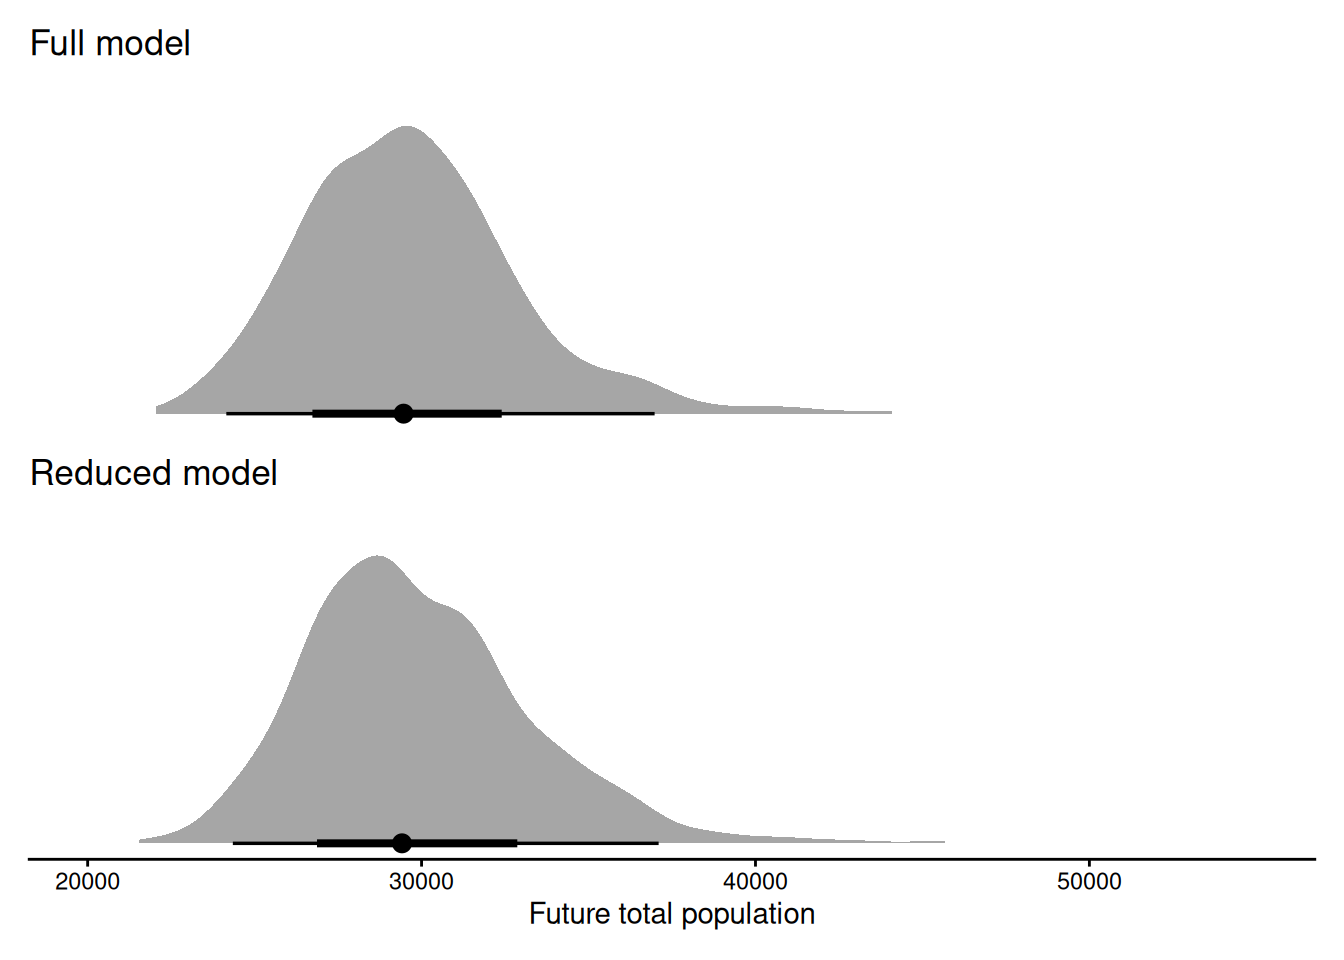
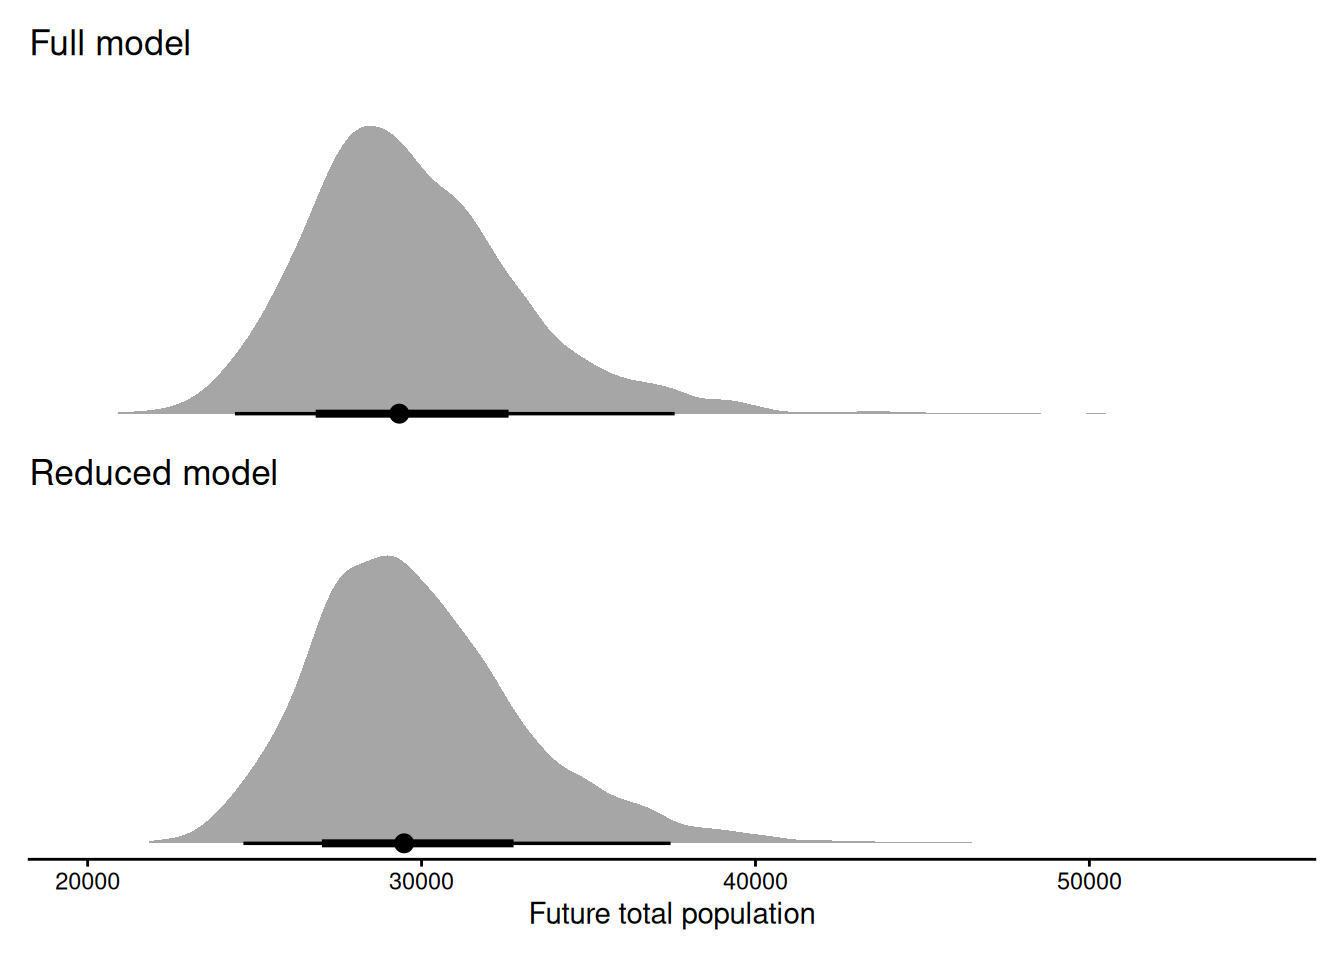
update case study

diff --git a/docs/articles/data_source_importance.html b/docs/articles/data_source_importance.html
@@ -133,9 +133,9 @@
 <span>    data <span class="op">=</span> <span class="va">grey_seal_data</span>,</span>
 <span>    species <span class="op">=</span> <span class="st">"grey"</span>,</span>
 <span>    years <span class="op">=</span> <span class="fl">2005</span><span class="op">:</span><span class="fl">2010</span>,</span>
-<span>    iter_warmup <span class="op">=</span> <span class="fl">800</span>,</span>
-<span>    iter_sampling <span class="op">=</span> <span class="fl">200</span>,</span>
-<span>    chains <span class="op">=</span> <span class="fl">5</span>,</span>
+<span>    iter_warmup <span class="op">=</span> <span class="fl">1000</span>,</span>
+<span>    iter_sampling <span class="op">=</span> <span class="fl">500</span>,</span>
+<span>    chains <span class="op">=</span> <span class="fl">10</span>,</span>
 <span>    seed <span class="op">=</span> <span class="fl">123</span>,</span>
 <span>    refresh <span class="op">=</span> <span class="fl">0</span></span>
 <span><span class="op">)</span></span></code></pre></div>
@@ -175,66 +175,66 @@
 
     <script src="https://cdn.jsdelivr.net/gh/vincentarelbundock/tinytable@main/inst/tinytable.js"></script><script>
       // Create table-specific functions using external factory
-      const tableFns_bupg8pci8k2zd06lzst3 = TinyTable.createTableFunctions("tinytable_bupg8pci8k2zd06lzst3");
+      const tableFns_br2hs6qhqlc0nozspq90 = TinyTable.createTableFunctions("tinytable_br2hs6qhqlc0nozspq90");
       // tinytable span after
       window.addEventListener('load', function () {
           var cellsToStyle = [
             // tinytable style arrays after
-          { positions: [ { i: '8', j: 1 }, { i: '8', j: 2 } ], css_id: 'tinytable_css_22kcstvxstbylncjt2mx',},
-          { positions: [ { i: '0', j: 1 }, { i: '0', j: 2 } ], css_id: 'tinytable_css_1u4lfc69mhzd3kwf9w3n',},
+          { positions: [ { i: '8', j: 1 }, { i: '8', j: 2 } ], css_id: 'tinytable_css_c6wkj2gts00m4i9fbu5r',},
+          { positions: [ { i: '0', j: 1 }, { i: '0', j: 2 } ], css_id: 'tinytable_css_ndypjil7q8o8wj9x03qs',},
           ];
 
           // Loop over the arrays to style the cells
           cellsToStyle.forEach(function (group) {
               group.positions.forEach(function (cell) {
-                  tableFns_bupg8pci8k2zd06lzst3.styleCell(cell.i, cell.j, group.css_id);
+                  tableFns_br2hs6qhqlc0nozspq90.styleCell(cell.i, cell.j, group.css_id);
               });
           });
       });
     </script><link rel="stylesheet" href="https://cdn.jsdelivr.net/gh/vincentarelbundock/tinytable@main/inst/tinytable.css">
 <style>
     /* tinytable css entries after */
-    #tinytable_bupg8pci8k2zd06lzst3 td.tinytable_css_22kcstvxstbylncjt2mx, #tinytable_bupg8pci8k2zd06lzst3 th.tinytable_css_22kcstvxstbylncjt2mx {  position: relative; --border-bottom: 1; --border-left: 0; --border-right: 0; --border-top: 0; --line-color-bottom: var(--tt-line-color); --line-color-left: var(--tt-line-color); --line-color-right: var(--tt-line-color); --line-color-top: var(--tt-line-color); --line-width-bottom: 0.08em; --line-width-left: 0.1em; --line-width-right: 0.1em; --line-width-top: 0.1em; --trim-bottom-left: 0%; --trim-bottom-right: 0%; --trim-left-bottom: 0%; --trim-left-top: 0%; --trim-right-bottom: 0%; --trim-right-top: 0%; --trim-top-left: 0%; --trim-top-right: 0%;  }
-    #tinytable_bupg8pci8k2zd06lzst3 td.tinytable_css_1u4lfc69mhzd3kwf9w3n, #tinytable_bupg8pci8k2zd06lzst3 th.tinytable_css_1u4lfc69mhzd3kwf9w3n {  position: relative; --border-bottom: 1; --border-left: 0; --border-right: 0; --border-top: 1; --line-color-bottom: var(--tt-line-color); --line-color-left: var(--tt-line-color); --line-color-right: var(--tt-line-color); --line-color-top: var(--tt-line-color); --line-width-bottom: 0.05em; --line-width-left: 0.1em; --line-width-right: 0.1em; --line-width-top: 0.08em; --trim-bottom-left: 0%; --trim-bottom-right: 0%; --trim-left-bottom: 0%; --trim-left-top: 0%; --trim-right-bottom: 0%; --trim-right-top: 0%; --trim-top-left: 0%; --trim-top-right: 0%;  }
+    #tinytable_br2hs6qhqlc0nozspq90 td.tinytable_css_c6wkj2gts00m4i9fbu5r, #tinytable_br2hs6qhqlc0nozspq90 th.tinytable_css_c6wkj2gts00m4i9fbu5r {  position: relative; --border-bottom: 1; --border-left: 0; --border-right: 0; --border-top: 0; --line-color-bottom: var(--tt-line-color); --line-color-left: var(--tt-line-color); --line-color-right: var(--tt-line-color); --line-color-top: var(--tt-line-color); --line-width-bottom: 0.08em; --line-width-left: 0.1em; --line-width-right: 0.1em; --line-width-top: 0.1em; --trim-bottom-left: 0%; --trim-bottom-right: 0%; --trim-left-bottom: 0%; --trim-left-top: 0%; --trim-right-bottom: 0%; --trim-right-top: 0%; --trim-top-left: 0%; --trim-top-right: 0%;  }
+    #tinytable_br2hs6qhqlc0nozspq90 td.tinytable_css_ndypjil7q8o8wj9x03qs, #tinytable_br2hs6qhqlc0nozspq90 th.tinytable_css_ndypjil7q8o8wj9x03qs {  position: relative; --border-bottom: 1; --border-left: 0; --border-right: 0; --border-top: 1; --line-color-bottom: var(--tt-line-color); --line-color-left: var(--tt-line-color); --line-color-right: var(--tt-line-color); --line-color-top: var(--tt-line-color); --line-width-bottom: 0.05em; --line-width-left: 0.1em; --line-width-right: 0.1em; --line-width-top: 0.08em; --trim-bottom-left: 0%; --trim-bottom-right: 0%; --trim-left-bottom: 0%; --trim-left-top: 0%; --trim-right-bottom: 0%; --trim-right-top: 0%; --trim-top-left: 0%; --trim-top-right: 0%;  }
     </style>
 <div class="container">
-      <table class="table tinytable" id="tinytable_bupg8pci8k2zd06lzst3" style="width: auto; margin-left: auto; margin-right: auto;" data-quarto-disable-processing="true">
+      <table class="table tinytable" id="tinytable_br2hs6qhqlc0nozspq90" style="width: auto; margin-left: auto; margin-right: auto;" data-quarto-disable-processing="true">
 <thead><tr>
 <th scope="col" data-row="0" data-col="1">Source</th>
                 <th scope="col" data-row="0" data-col="2">Likelihood sensitivity</th>
               </tr></thead>
 <tbody>
 <tr>
-<td data-row="1" data-col="1">harvest_bags_sweden</td>
-                  <td data-row="1" data-col="2">0.01</td>
+<td data-row="1" data-col="1">pregnancy</td>
+                  <td data-row="1" data-col="2">0.003</td>
                 </tr>
 <tr>
-<td data-row="2" data-col="1">pregnancy</td>
-                  <td data-row="2" data-col="2">0.02</td>
+<td data-row="2" data-col="1">harvest_bags_finland</td>
+                  <td data-row="2" data-col="2">0.007</td>
                 </tr>
 <tr>
-<td data-row="3" data-col="1">harvest_bags_finland</td>
-                  <td data-row="3" data-col="2">0.02</td>
+<td data-row="3" data-col="1">harvest_bags_sweden</td>
+                  <td data-row="3" data-col="2">0.008</td>
                 </tr>
 <tr>
-<td data-row="4" data-col="1">bycatch</td>
-                  <td data-row="4" data-col="2">0.02</td>
+<td data-row="4" data-col="1">reproductive_signs</td>
+                  <td data-row="4" data-col="2">0.015</td>
                 </tr>
 <tr>
-<td data-row="5" data-col="1">reproductive_signs</td>
-                  <td data-row="5" data-col="2">0.03</td>
+<td data-row="5" data-col="1">bycatch</td>
+                  <td data-row="5" data-col="2">0.017</td>
                 </tr>
 <tr>
-<td data-row="6" data-col="1">hunting_comp_sweden</td>
-                  <td data-row="6" data-col="2">0.06</td>
+<td data-row="6" data-col="1">hunting_comp_finland</td>
+                  <td data-row="6" data-col="2">0.021</td>
                 </tr>
 <tr>
-<td data-row="7" data-col="1">hunting_comp_finland</td>
-                  <td data-row="7" data-col="2">0.09</td>
+<td data-row="7" data-col="1">hunting_comp_sweden</td>
+                  <td data-row="7" data-col="2">0.048</td>
                 </tr>
 <tr>
 <td data-row="8" data-col="1">aerial</td>
-                  <td data-row="8" data-col="2">0.2</td>
+                  <td data-row="8" data-col="2">0.189</td>
                 </tr>
 </tbody>
 </table>
@@ -256,9 +256,9 @@
 <span>    data <span class="op">=</span> <span class="va">data_no_pregnancy</span>,</span>
 <span>    species <span class="op">=</span> <span class="st">"grey"</span>,</span>
 <span>    years <span class="op">=</span> <span class="fl">2005</span><span class="op">:</span><span class="fl">2010</span>,</span>
-<span>    iter_warmup <span class="op">=</span> <span class="fl">800</span>,</span>
-<span>    iter_sampling <span class="op">=</span> <span class="fl">200</span>,</span>
-<span>    chains <span class="op">=</span> <span class="fl">5</span>,</span>
+<span>    iter_warmup <span class="op">=</span> <span class="fl">1000</span>,</span>
+<span>    iter_sampling <span class="op">=</span> <span class="fl">500</span>,</span>
+<span>    chains <span class="op">=</span> <span class="fl">10</span>,</span>
 <span>    seed <span class="op">=</span> <span class="fl">123</span>,</span>
 <span>    refresh <span class="op">=</span> <span class="fl">0</span></span>
 <span><span class="op">)</span></span></code></pre></div>
@@ -282,34 +282,44 @@
 <span>    future_data <span class="op">=</span> <span class="va">future_data</span>,</span>
 <span>    species <span class="op">=</span> <span class="st">"grey"</span></span>
 <span><span class="op">)</span></span>
-<span><span class="co">#&gt; Running standalone generated quantities after 5 MCMC chains, 10 chains at a time ...</span></span>
+<span><span class="co">#&gt; Running standalone generated quantities after 10 MCMC chains, all chains in parallel ...</span></span>
 <span><span class="co">#&gt; </span></span>
-<span><span class="co">#&gt; Chain 1 finished in 0.1 seconds.</span></span>
-<span><span class="co">#&gt; Chain 2 finished in 0.1 seconds.</span></span>
-<span><span class="co">#&gt; Chain 3 finished in 0.1 seconds.</span></span>
-<span><span class="co">#&gt; Chain 4 finished in 0.1 seconds.</span></span>
-<span><span class="co">#&gt; Chain 5 finished in 0.1 seconds.</span></span>
+<span><span class="co">#&gt; Chain 1 finished in 0.2 seconds.</span></span>
+<span><span class="co">#&gt; Chain 2 finished in 0.2 seconds.</span></span>
+<span><span class="co">#&gt; Chain 3 finished in 0.2 seconds.</span></span>
+<span><span class="co">#&gt; Chain 4 finished in 0.2 seconds.</span></span>
+<span><span class="co">#&gt; Chain 5 finished in 0.2 seconds.</span></span>
+<span><span class="co">#&gt; Chain 6 finished in 0.2 seconds.</span></span>
+<span><span class="co">#&gt; Chain 9 finished in 0.1 seconds.</span></span>
+<span><span class="co">#&gt; Chain 7 finished in 0.2 seconds.</span></span>
+<span><span class="co">#&gt; Chain 8 finished in 0.2 seconds.</span></span>
+<span><span class="co">#&gt; Chain 10 finished in 0.2 seconds.</span></span>
 <span><span class="co">#&gt; </span></span>
-<span><span class="co">#&gt; All 5 chains finished successfully.</span></span>
-<span><span class="co">#&gt; Mean chain execution time: 0.1 seconds.</span></span>
-<span><span class="co">#&gt; Total execution time: 0.3 seconds.</span></span>
+<span><span class="co">#&gt; All 10 chains finished successfully.</span></span>
+<span><span class="co">#&gt; Mean chain execution time: 0.2 seconds.</span></span>
+<span><span class="co">#&gt; Total execution time: 0.5 seconds.</span></span>
 <span></span>
 <span><span class="va">no_pregnancy_forecast</span> <span class="op">&lt;-</span> <span class="fu"><a href="../reference/forecast_ipm.html">forecast_ipm</a></span><span class="op">(</span></span>
 <span>    <span class="va">fit_no_pregnancy</span>,</span>
 <span>    future_data <span class="op">=</span> <span class="va">future_data</span>,</span>
 <span>    species <span class="op">=</span> <span class="st">"grey"</span></span>
 <span><span class="op">)</span></span>
-<span><span class="co">#&gt; Running standalone generated quantities after 5 MCMC chains, 10 chains at a time ...</span></span>
+<span><span class="co">#&gt; Running standalone generated quantities after 10 MCMC chains, all chains in parallel ...</span></span>
 <span><span class="co">#&gt; </span></span>
-<span><span class="co">#&gt; Chain 1 finished in 0.1 seconds.</span></span>
-<span><span class="co">#&gt; Chain 2 finished in 0.1 seconds.</span></span>
-<span><span class="co">#&gt; Chain 3 finished in 0.1 seconds.</span></span>
-<span><span class="co">#&gt; Chain 4 finished in 0.1 seconds.</span></span>
-<span><span class="co">#&gt; Chain 5 finished in 0.1 seconds.</span></span>
+<span><span class="co">#&gt; Chain 1 finished in 0.2 seconds.</span></span>
+<span><span class="co">#&gt; Chain 2 finished in 0.2 seconds.</span></span>
+<span><span class="co">#&gt; Chain 3 finished in 0.2 seconds.</span></span>
+<span><span class="co">#&gt; Chain 4 finished in 0.3 seconds.</span></span>
+<span><span class="co">#&gt; Chain 5 finished in 0.2 seconds.</span></span>
+<span><span class="co">#&gt; Chain 6 finished in 0.2 seconds.</span></span>
+<span><span class="co">#&gt; Chain 7 finished in 0.2 seconds.</span></span>
+<span><span class="co">#&gt; Chain 8 finished in 0.2 seconds.</span></span>
+<span><span class="co">#&gt; Chain 9 finished in 0.2 seconds.</span></span>
+<span><span class="co">#&gt; Chain 10 finished in 0.2 seconds.</span></span>
 <span><span class="co">#&gt; </span></span>
-<span><span class="co">#&gt; All 5 chains finished successfully.</span></span>
-<span><span class="co">#&gt; Mean chain execution time: 0.1 seconds.</span></span>
-<span><span class="co">#&gt; Total execution time: 0.3 seconds.</span></span></code></pre></div>
+<span><span class="co">#&gt; All 10 chains finished successfully.</span></span>
+<span><span class="co">#&gt; Mean chain execution time: 0.2 seconds.</span></span>
+<span><span class="co">#&gt; Total execution time: 0.6 seconds.</span></span></code></pre></div>
 </div>
 <p>And see how the models forecast the future population. Here we can judge whether the difference between the full and reduced models is meaningful, or if we consider dropping the source.</p>
 <div class="cell">
@@ -334,7 +344,9 @@
 <span>        axis.title.y <span class="op">=</span> <span class="fu"><a href="https://ggplot2.tidyverse.org/reference/element.html" class="external-link">element_blank</a></span><span class="op">(</span><span class="op">)</span>,</span>
 <span>        axis.line.y <span class="op">=</span> <span class="fu"><a href="https://ggplot2.tidyverse.org/reference/element.html" class="external-link">element_blank</a></span><span class="op">(</span><span class="op">)</span>,</span>
 <span>        axis.ticks.y <span class="op">=</span> <span class="fu"><a href="https://ggplot2.tidyverse.org/reference/element.html" class="external-link">element_blank</a></span><span class="op">(</span><span class="op">)</span><span class="op">)</span> <span class="op">&amp;</span></span>
-<span>    <span class="fu"><a href="https://ggplot2.tidyverse.org/reference/labs.html" class="external-link">xlab</a></span><span class="op">(</span><span class="st">"Future total population"</span><span class="op">)</span></span></code></pre></div>
+<span>    <span class="fu"><a href="https://ggplot2.tidyverse.org/reference/labs.html" class="external-link">xlab</a></span><span class="op">(</span><span class="st">"Future total population"</span><span class="op">)</span></span>
+<span><span class="co">#&gt; Warning: Removed 1 row containing missing values or values outside the scale range</span></span>
+<span><span class="co">#&gt; (`stat_slabinterval()`).</span></span></code></pre></div>
 <div class="cell-output-display">
 <div>
 <figure><p><img src="data_source_importance_files/figure-html/unnamed-chunk-7-1.png" width="672"></p>
